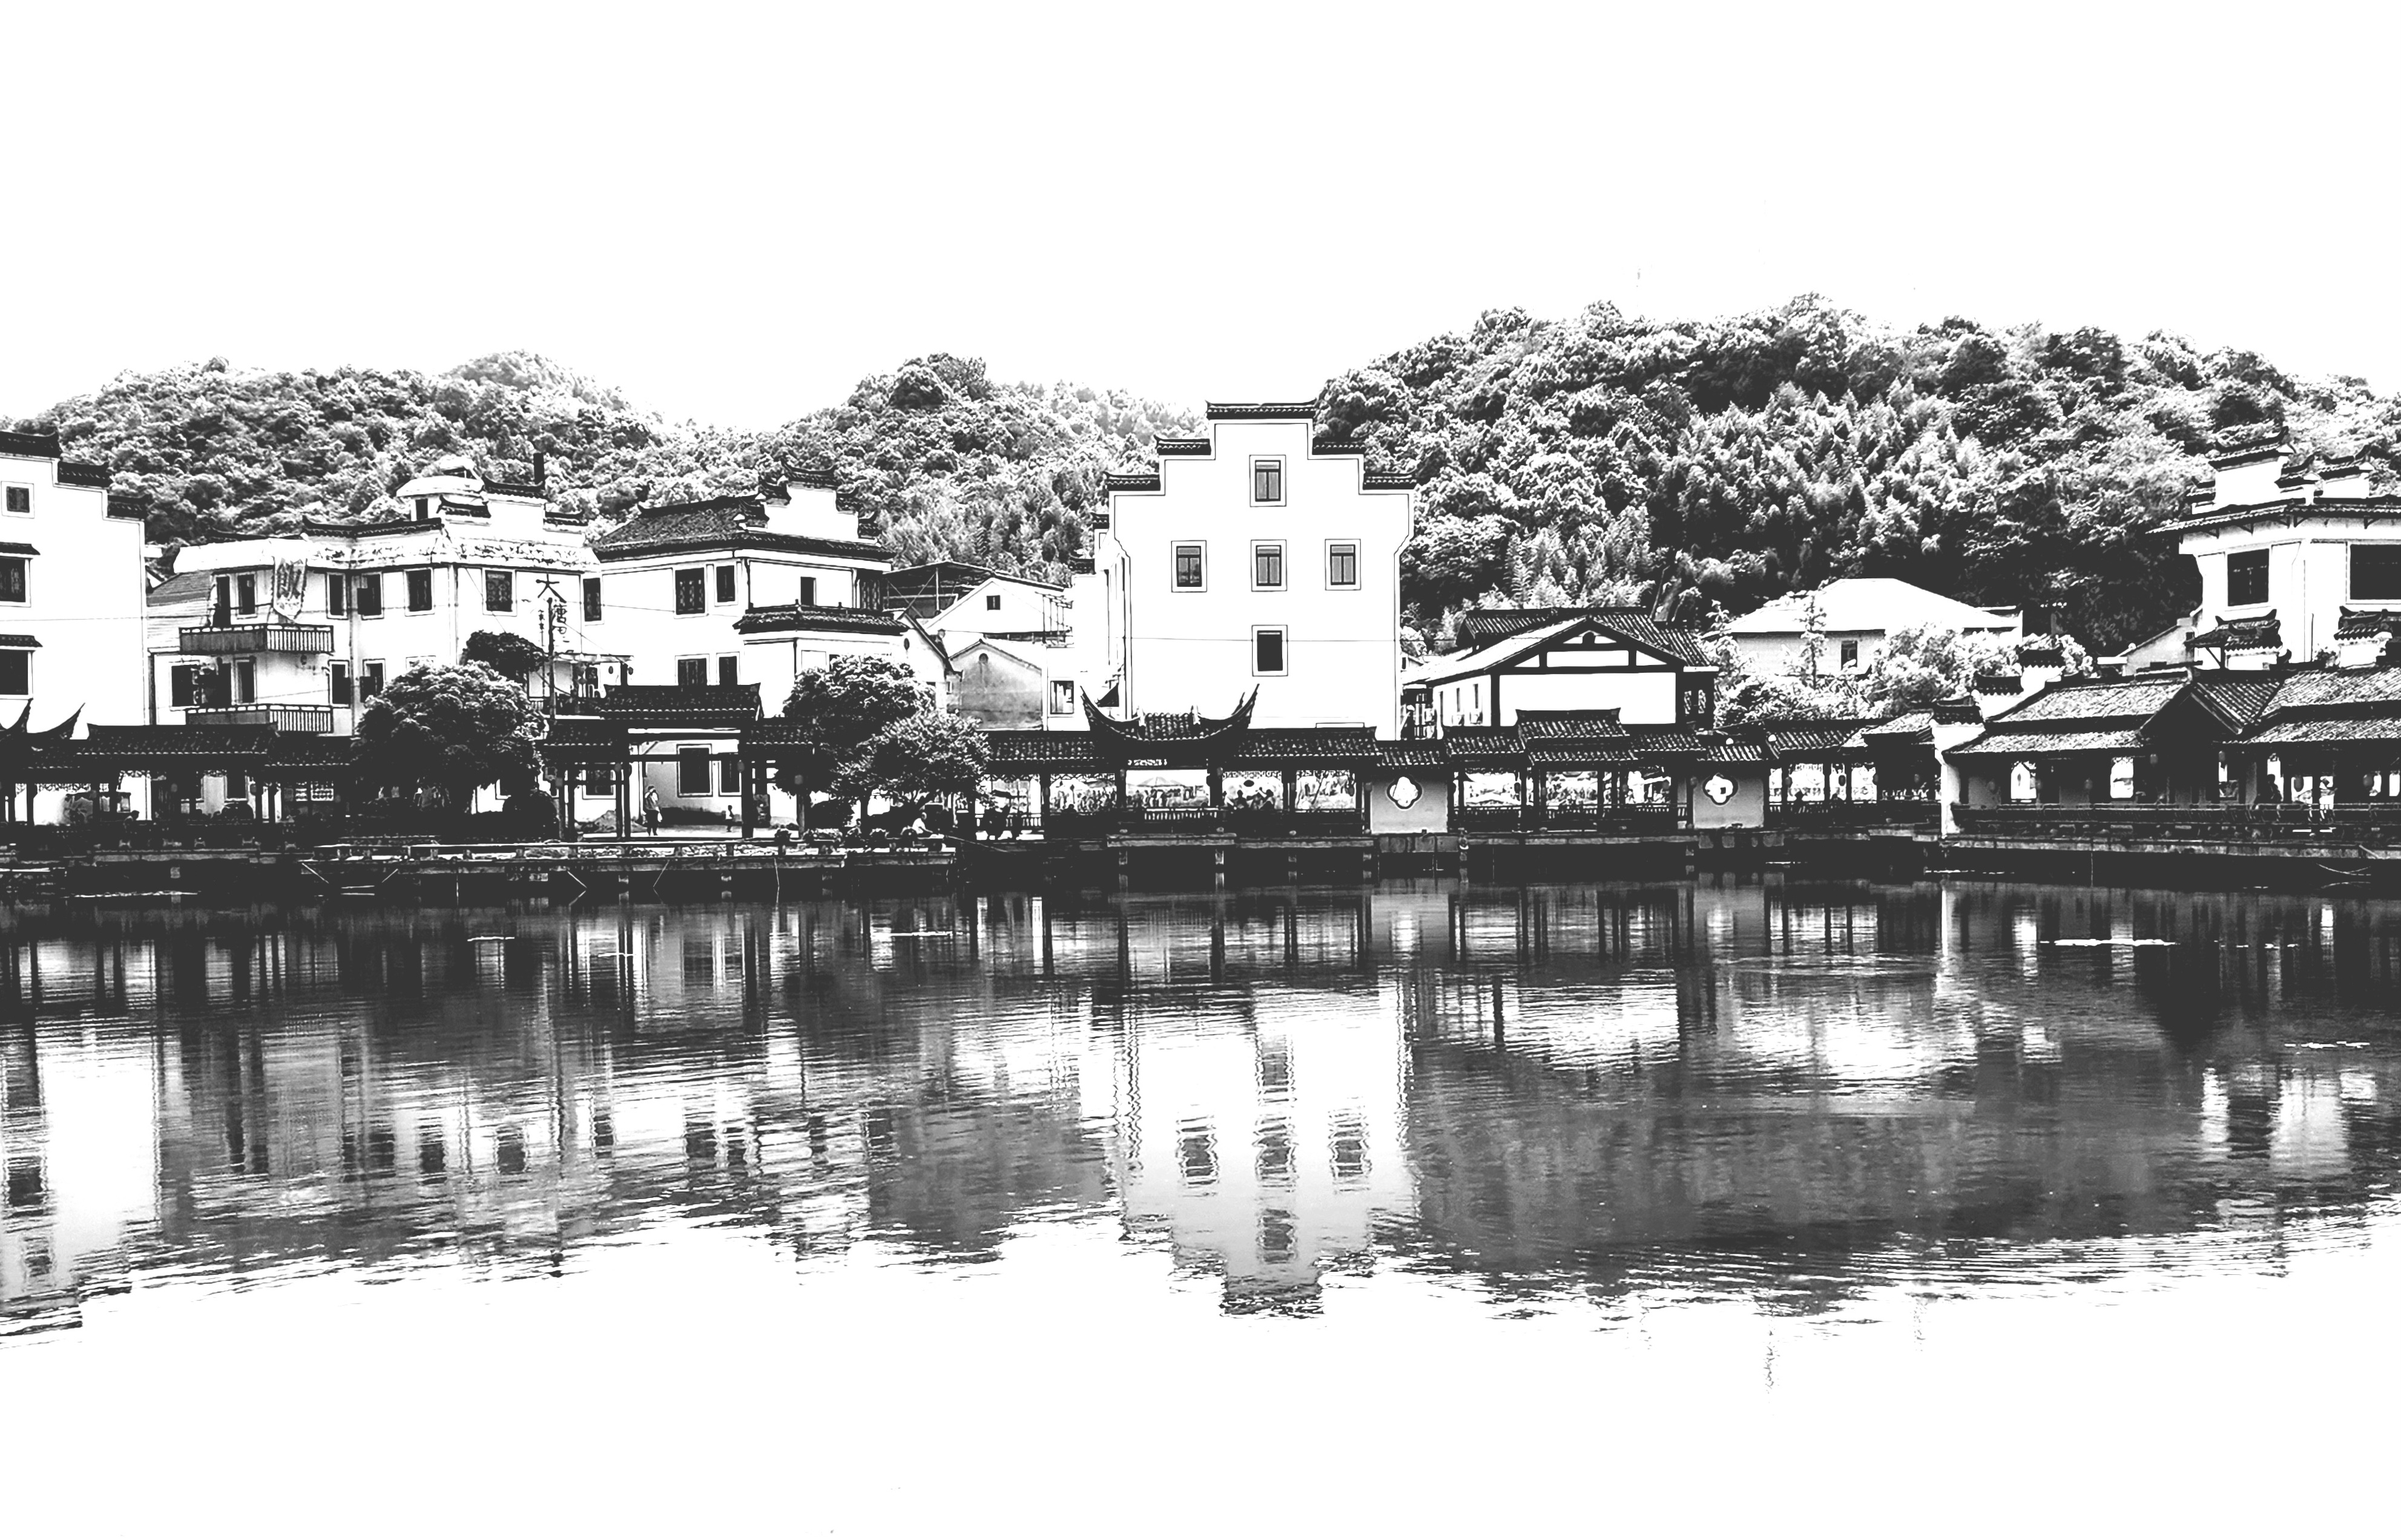
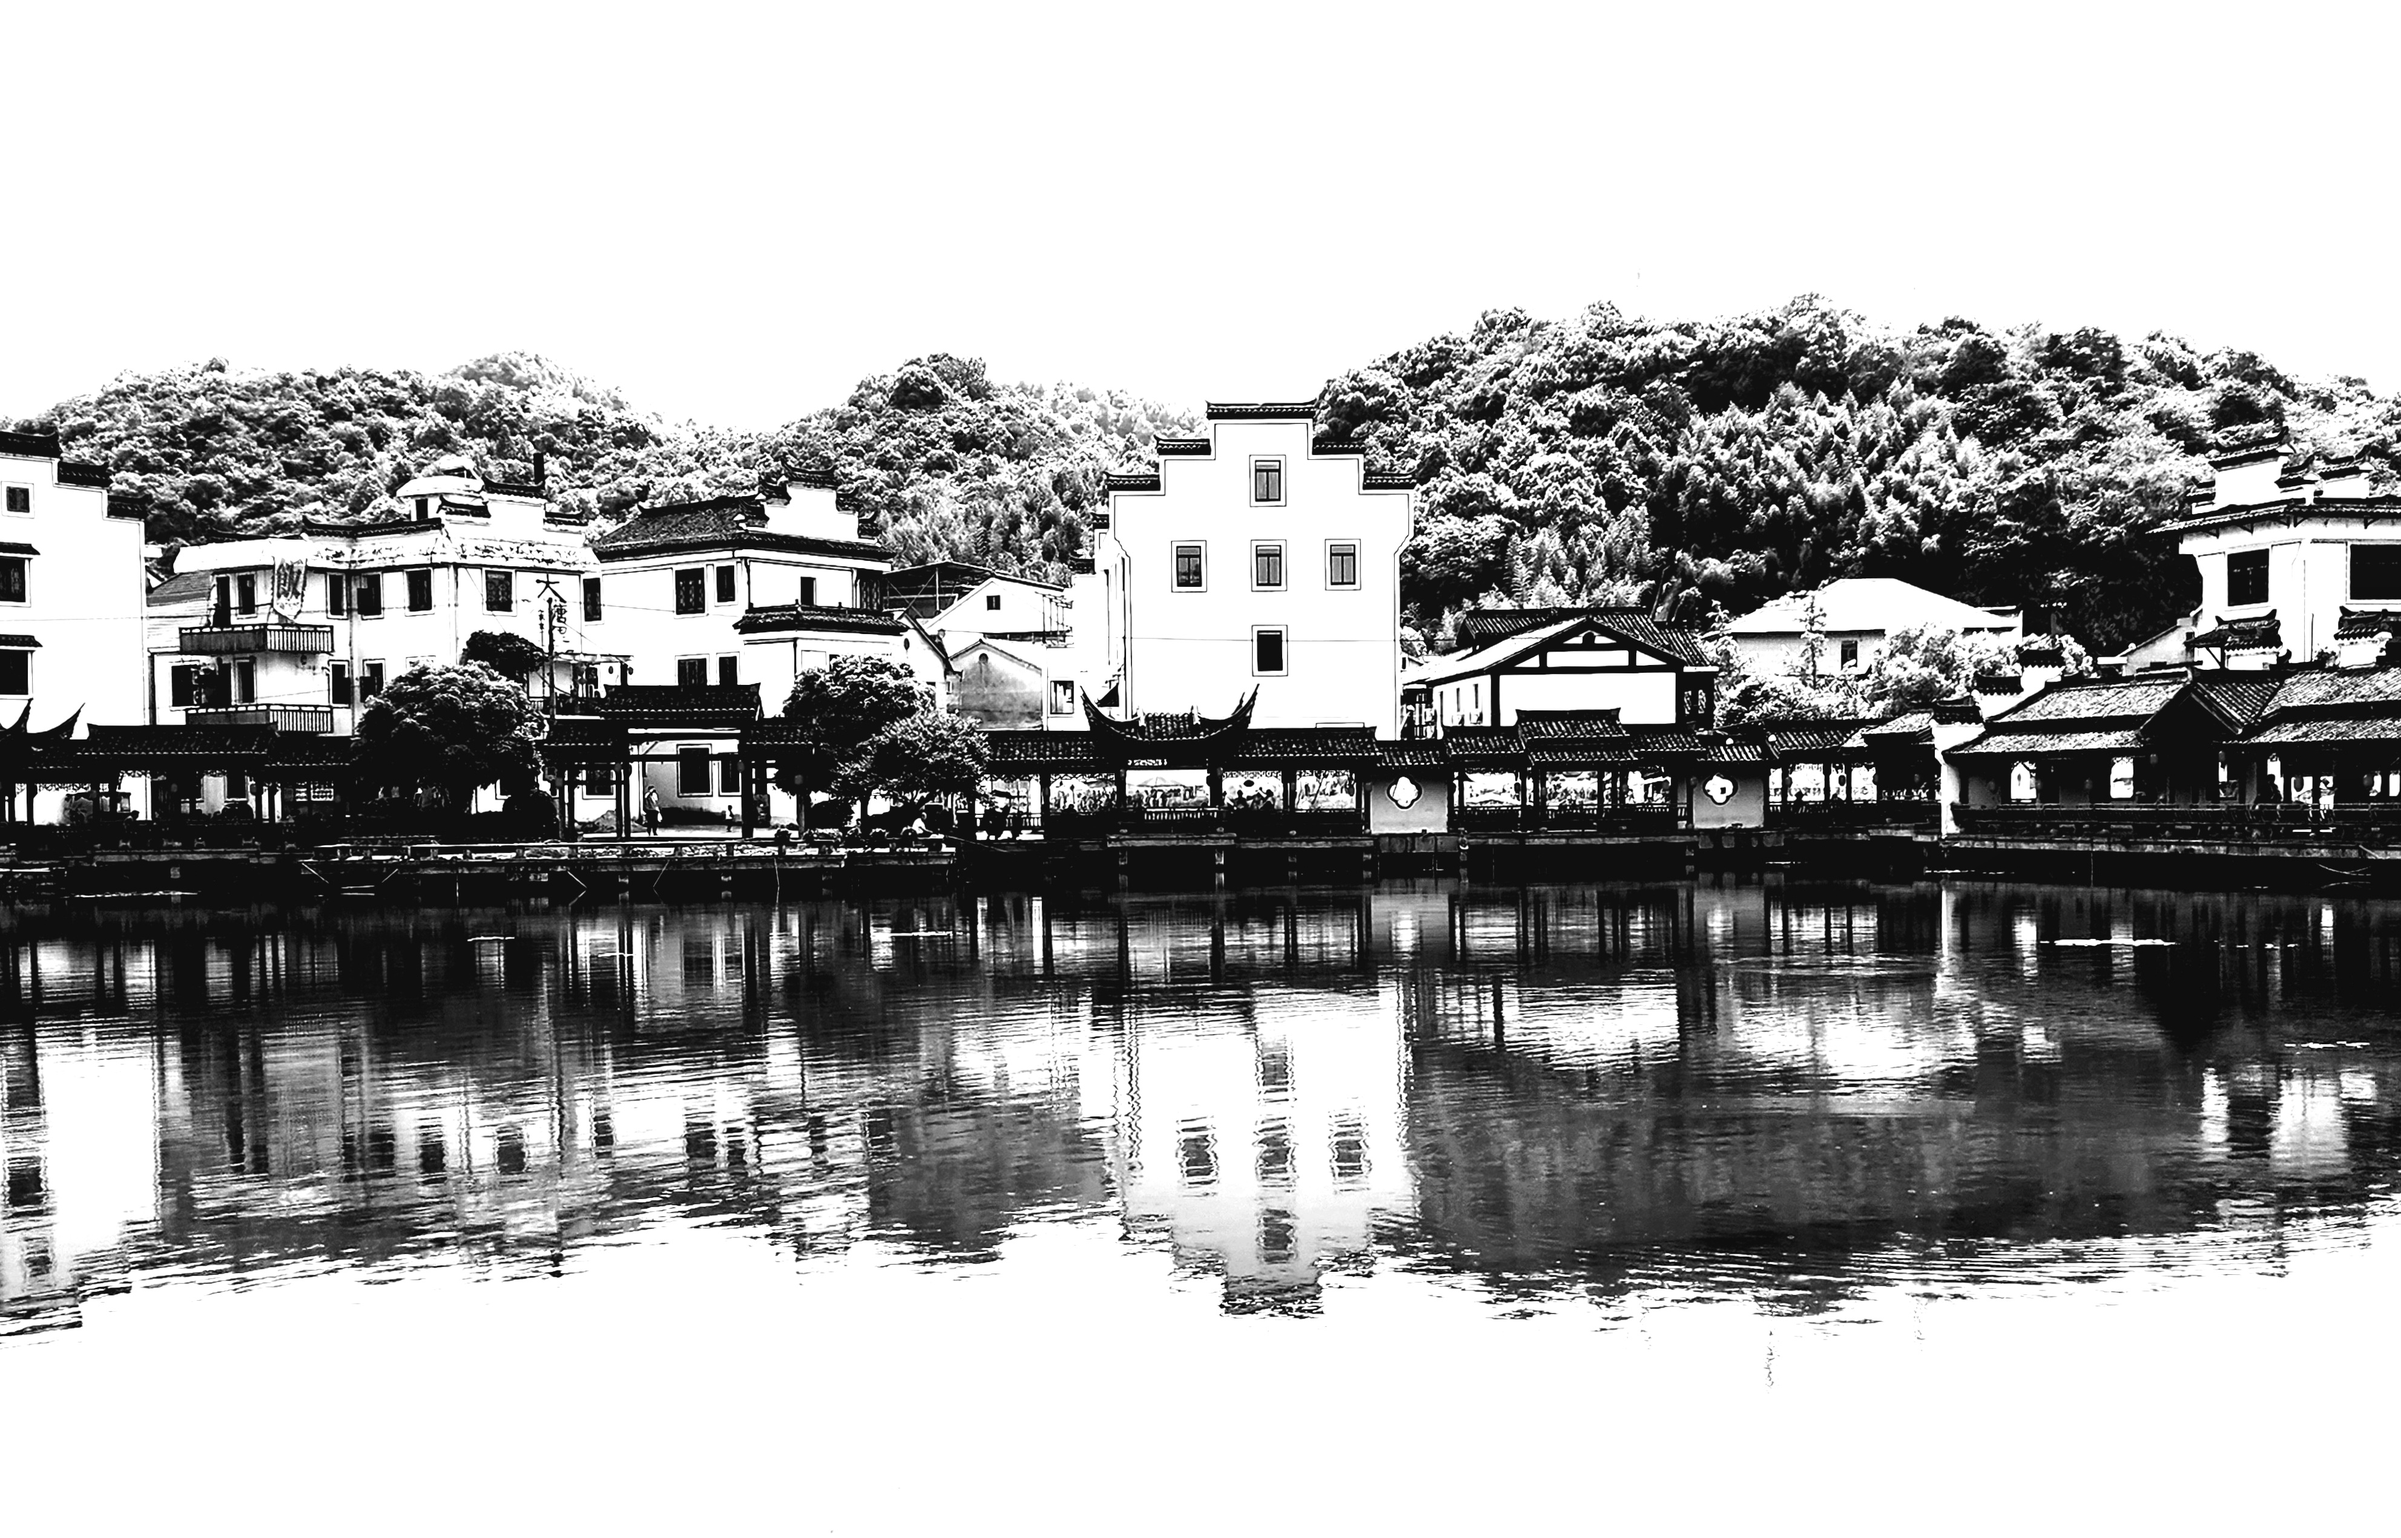
commit

diff --git a/index.html b/index.html
@@ -12,8 +12,6 @@ body {
 img {
   padding-top: 50px;
   padding-left: 15px;
-  max-width: 200px; /* Set a small width */
-  max-height: 200px; /* Set a small width */
 }
 </style>
 
@@ -35,35 +33,35 @@ a:link {
 <br>Copyright 2024-2026 J.Rugis
 <br>All rights reserved.
 
-<br><a href="20260627_093257.jpg"><img src="20260627_093257.jpg"></a>
-<br><i>Two Trees</i>, New Zealand(2026)
+<br><a href="20260627_093257.jpg"><img src="20260627_093257.jpg" height=250></a>
+<br><i>Two Trees</i>, New Zealand (2026)
 
-<br><a href="20260607_155717.jpg" ><img src="20260607_155717.jpg"></a>
-<br><i>The Lamp</i>, New Zealand(2026)
+<br><a href="20260607_155717.jpg" ><img src="20260607_155717.jpg" height=220></a>
+<br><i>The Lamp</i>, New Zealand (2026)
 
-<br><a href="20260425_132023.jpg"><img src="20260425_132023.jpg"></a>
-<br><i>River</i>, China(2026)
+<br><a href="20260425_132023.jpg"><img src="20260425_132023.jpg" height=190></a>
+<br><i>River</i>, China (2026)
 
-<br><a href="20260423_121728.jpg"><img src="20260423_121728.jpg"></a>
-<br><i>Door</i>, China(2026)
+<br><a href="20260423_121728.jpg"><img src="20260423_121728.jpg" height=260></a>
+<br><i>Door</i>, China (2026)
 
-<br><a href="20260423_124555.jpg" ><img src="20260423_124555.jpg"></a>
-<br><i>Bridge</i>, China(2026)
+<br><a href="20260423_124555.jpg" ><img src="20260423_124555.jpg" height=300></a>
+<br><i>Bridge</i>, China (2026)
 
-<br><a href="20260423_114712.jpg" ><img src="20260423_114712.jpg"></a>
-<br><i>House</i>, China(2026)
+<br><a href="20260423_114712.jpg" ><img src="20260423_114712.jpg" height=230></a>
+<br><i>House</i>, China (2026)
 
-<br><a href="20260421_154806.jpg"><img src="20260421_154806.jpg"></a>
-<br><i>Window</i>, China(2026)
+<br><a href="20260421_154806.jpg"><img src="20260421_154806.jpg" height=190></a>
+<br><i>Window</i>, China (2026)
 
-<br><a href="20250331_141240.jpg" ><img src="20250331_141240.jpg"></a>
-<br><i>Passage</i>, New Zealand(2025)
+<br><a href="20250331_141240.jpg" ><img src="20250331_141240.jpg" height=160></a>
+<br><i>Passage</i>, New Zealand (2025)
 
-<br><a href="20240907_180113.jpg"><img src="20240907_180113.jpg"></a>
-<br><i>Tenacious</i>, New Zealand(2024)
+<br><a href="20240907_180113.jpg"><img src="20240907_180113.jpg" height=240></a>
+<br><i>Tenacious</i>, New Zealand (2024)
 
-<br><a href="20240216_093033.jpg"><img src="20240216_093033.jpg"></a>
-<br><i>Bay</i>, New Zealand(2024)
+<br><a href="20240216_093033.jpg"><img src="20240216_093033.jpg" height=170></a>
+<br><i>Bay</i>, New Zealand (2024)
 
 </small>
 </body>
@@ -71,6 +69,6 @@ a:link {
 </html>
 
 <!--
-<br><p>  </p>
-<img src="by-nc-sa.svg" width="65"><br>
+  max-width: 220px; /* Set a small width */
+  max-height: 220px; /* Set a small width */
 -->
